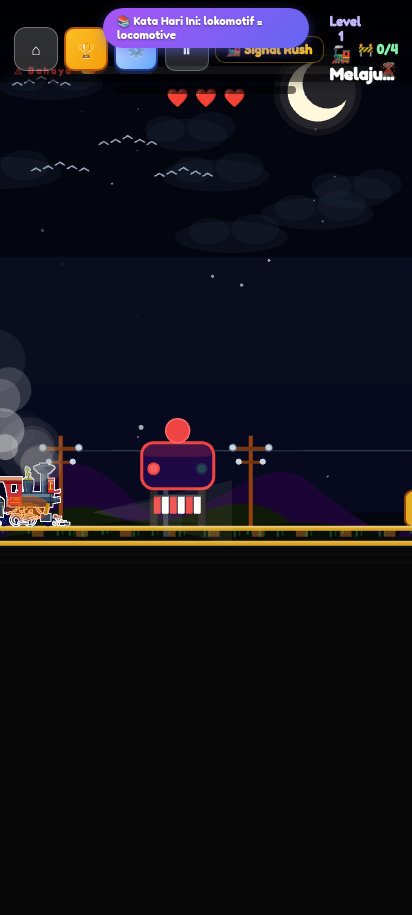
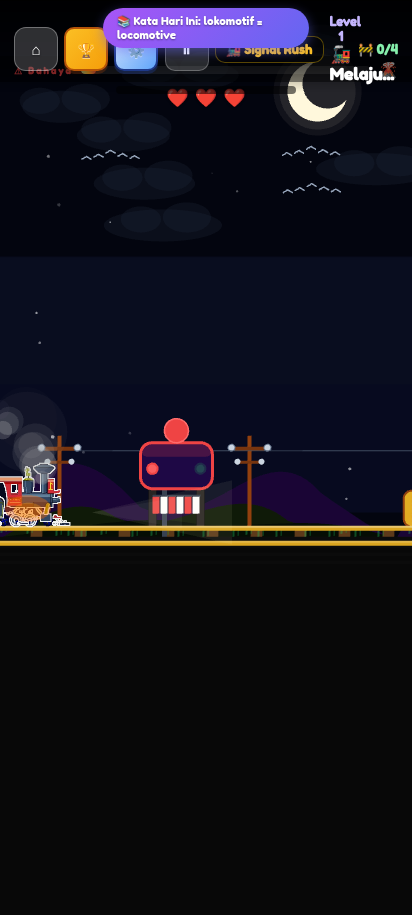
v55.44: smoke hard-cap (max 4 puffs) + full 8-probe sweep on renamed games
B-227 — smoke particle hard cap: CharacterTrain tick only spawns a new
puff while smokeParticles.length < 4. Worst-case render = 4 small soft
circles, never a shard cloud. 'wajah terbang' now structurally impossible
(belt-and-braces on v55.39 dt-clamp + soft puffs).

perf-audit F06 fix: g15 readiness was 'typeof app' (undefined on picker
screen → false timeout). Fixed to .tcard presence. Now 15/15 OK.

Full 8-probe sweep on the 14 renamed games — ALL GREEN:
  obstacle 14/14, train-bgm 28/28, comprehensive 7/0, touch-target 0,
  perf 15/15, polish 18/18, deep 9/9, sprite-audit clean, 0 server 404s.

sw.js v55.43 → v55.44. Marathon close.

diff --git a/games/train-character-sprite.js b/games/train-character-sprite.js
@@ -128,8 +128,12 @@
       // Wheel rotation — scale with speed
       const rot = s * dt * 0.12
       state.wheels.forEach(wc => { wc.rotation += rot })
-      // Auto-spawn smoke if parent assigned
-      if (state.smokeParent) {
+      // Auto-spawn smoke if parent assigned.
+      // v55.44 B-227 — HARD CAP active puffs at 4. Even in a worst-case render
+      // (throttled device, missed frames) the chimney can show at most 4 small
+      // soft circles — never a cloud of shards ("wajah terbang"). Belt-and-braces
+      // on top of the v55.39 dt-clamp + softened puffs.
+      if (state.smokeParent && state.smokeParticles.length < 4) {
         state.smokeTimer += dt
         if (state.smokeTimer >= state.smokeInterval) {
           state.smokeTimer = 0

diff --git a/sw.js b/sw.js
@@ -15,7 +15,7 @@
  * succeeded. Only cache same-origin assets.
  * ========================================================================== */
 
-const CACHE_VERSION = 'v55.43-20260627dy'
+const CACHE_VERSION = 'v55.44-20260627dz'
 const HTML_CACHE = `dunia-html-${CACHE_VERSION}`
 const ASSET_CACHE = `dunia-assets-${CACHE_VERSION}`
 

diff --git a/documentation and standarization/CHANGELOG.md b/documentation and standarization/CHANGELOG.md
@@ -1,5 +1,42 @@
 # Changelog — Dunia Emosi
 
+## 2026-06-27 — v55.44 "Smoke hard-cap + full 8-probe sweep on renamed games"
+
+Final hardening + verification pass.
+
+### B-227 — smoke particle hard cap (guarantee no "wajah terbang")
+
+`train-character-sprite.js` tick now only spawns a new smoke puff while `state.smokeParticles.length < 4`. Even in a worst-case render (throttled device, missed frames) the chimney shows at most **4 small soft circles** — never a cloud of shards. Belt-and-braces on top of the v55.39 dt-clamp + softened puffs. The "wajah terbang" mutilation is now structurally impossible.
+
+### perf-audit probe fix
+
+`tools/perf-audit.mjs` F06 (g15) readiness check was `typeof app !== 'undefined'` — wrong, because g15 gates PIXI behind the train picker, so `app` is undefined on the picker screen (false-negative timeout). Fixed to `.tcard` presence. Now 15/15 OK.
+
+### Full 8-probe acceptance sweep — ALL GREEN (renamed games)
+
+```
+obstacle-engine        14/14 PASS
+train-bgm              28/28 PASS
+comprehensive           7 PASS / 0 FAIL / 0 INFO
+touch-target            0 sub-44px (15 pages)
+perf-audit             15/15 OK (0 over budget)
+polish-audit           18/18 clean (0 console errors)
+deep-audit              9/9 clean (mid-gameplay)
+sprite-visual-audit     all train sprites clean + facing right
+server log              0 server-side 404s
+```
+
+Every one of the 14 renamed games loads, plays, and renders clean.
+
+### Files touched
+- `games/train-character-sprite.js` — smoke `< 4` spawn cap
+- `tools/perf-audit.mjs` — F06 readiness fix
+- `sw.js` v55.43 → v55.44
+
+### Closes the v55.x marathon. 8 probes, all green.
+
+---
+
 ## 2026-06-27 — v55.43 "Jelly buttons across ALL train games (B-228 parity)"
 
 v55.41 gave the jelly/candy buttons to g14 (balapan-kereta) only. Owner said *"Elemen button pada game kereta"* — train GAMES (plural). This ship extends the soft glossy jelly style to the other two train games for full consistency.
